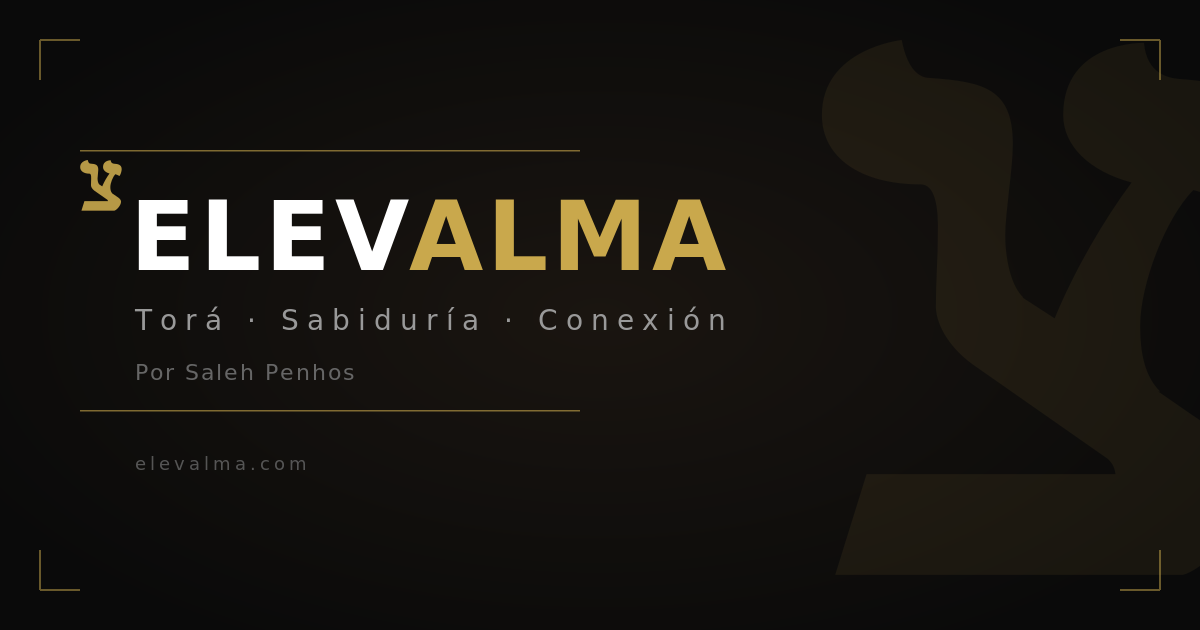
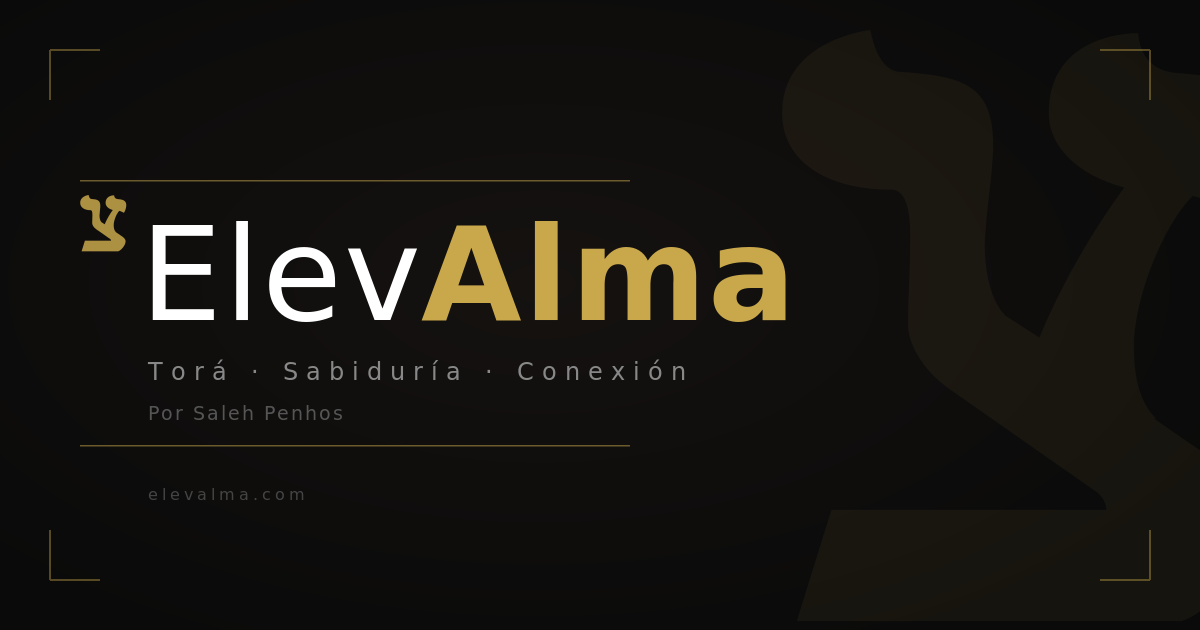
OG image ElevAlma mixed case, mas grande

diff --git a/blog/index.html b/blog/index.html
@@ -11,7 +11,7 @@ title: Blog — ElevAlma
   <meta name="description" content="Artículos semanales sobre Torá, Parashá, Kabalá y crecimiento espiritual. Por Saleh Penhos.">
   <meta property="og:title" content="Blog — ElevAlma">
   <meta property="og:description" content="Artículos semanales sobre Torá, Parashá, Kabalá y crecimiento espiritual.">
-  <meta property="og:image" content="https://elevalma.com/og-image.png">
+  <meta property="og:image" content="https://elevalma.com/og-image.png?v=3">
   <meta property="og:image:width" content="1200">
   <meta property="og:image:height" content="630">
   <link rel="canonical" href="https://elevalma.com/blog/">

diff --git a/index.html b/index.html
@@ -10,7 +10,7 @@
   <meta property="og:description" content="Videos semanales de Torá, reflexión profunda y herramientas para conectar con tu esencia.">
   <meta property="og:type" content="website">
   <meta property="og:url" content="https://elevalma.com">
-  <meta property="og:image" content="https://elevalma.com/og-image.png?v=2">
+  <meta property="og:image" content="https://elevalma.com/og-image.png?v=3">
   <meta property="og:image:width" content="1200">
   <meta property="og:image:height" content="630">
   <link rel="preconnect" href="https://fonts.googleapis.com">
